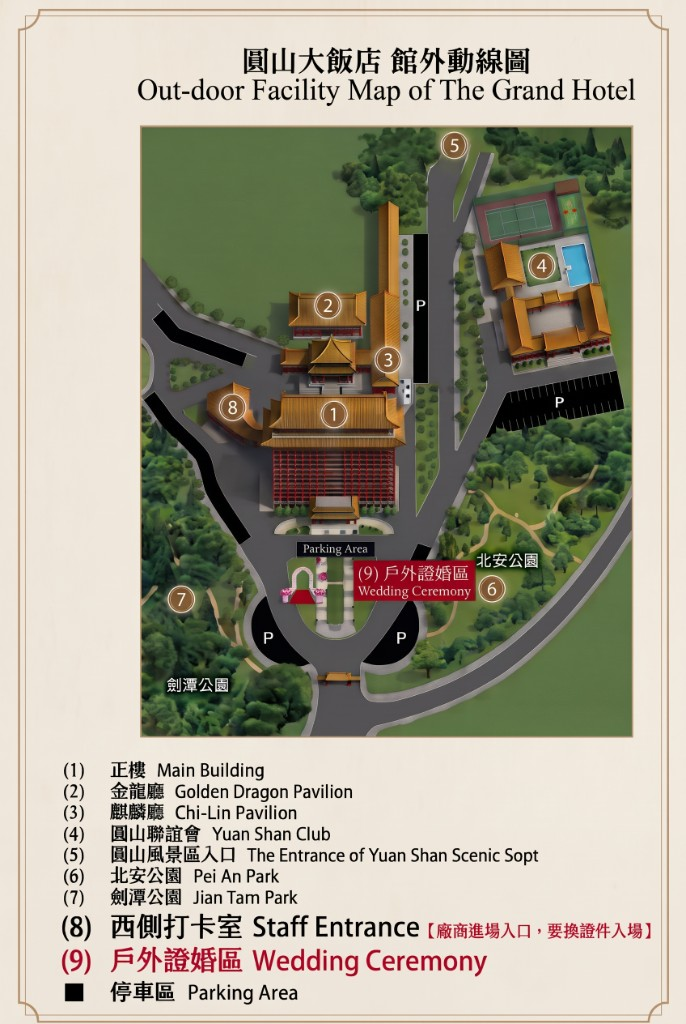
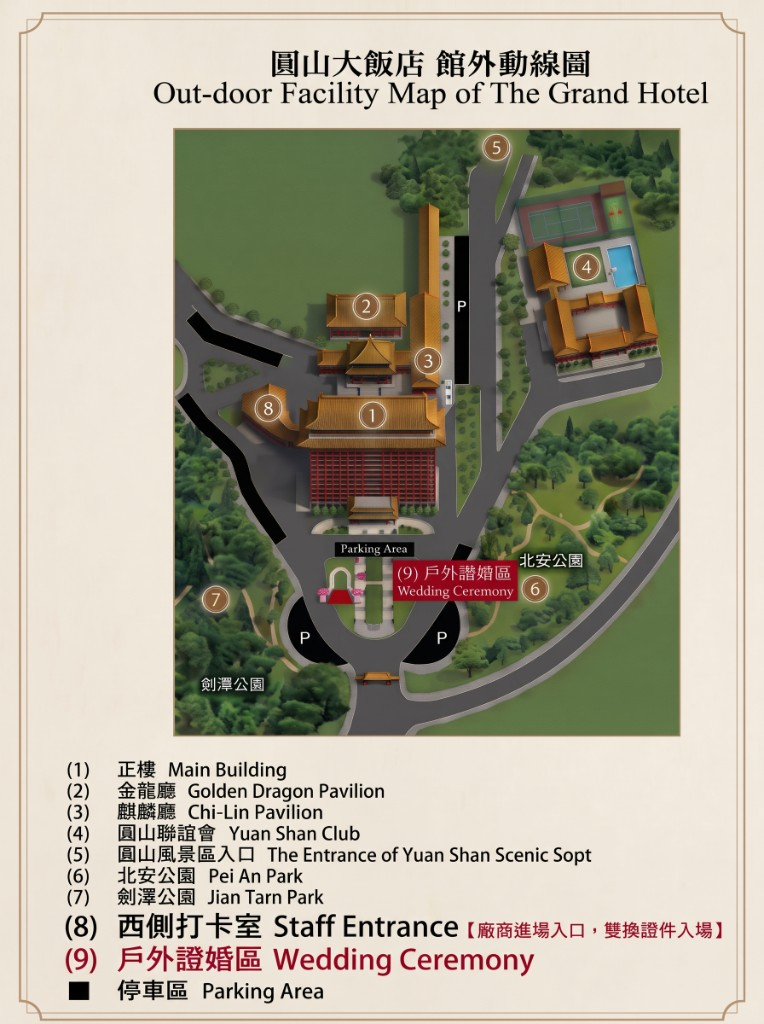
Update wedding agenda wording and refresh the outdoor map image.

Changed region(s): [[0.0306, 0.0, 0.9796, 1.0], [0.0306, 0.7188, 0.0612, 0.75], [0.0306, 0.4375, 0.0612, 0.4688]]

diff --git a/index.html b/index.html
@@ -250,9 +250,9 @@
       <button type="button" id="transit-btn" class="transit-btn" data-open-modal="transit">交通指引</button>
 
       <ol class="timeline">
-        <li><time>11:00</time><span>觀禮證婚儀式</span></li>
-        <li><time>12:00</time><span>圓山大廳 貴賓尊榮大合影</span></li>
-        <li><time>12:30</time><span>喜宴盛大開席</span></li>
+        <li><time>09:45</time><span>戶外證婚（誠摯歡迎觀禮）</span></li>
+        <li><time>10:15</time><span>圓山大廳 貴賓尊榮大合影</span></li>
+        <li><time>12:00</time><span>喜宴盛大開席</span></li>
       </ol>
     </article>
 
@@ -278,7 +278,7 @@
 
       <div id="attending-block" class="conditional-block" hidden>
         <fieldset class="field">
-          <legend>是否參與 11:00 證婚儀式觀禮 <em>*</em></legend>
+          <legend>是否參加 09:45 戶外證婚儀式 <em>*</em></legend>
           <label class="choice"><input type="radio" name="ceremony" value="是，願意提早到場觀禮" /> 是，願意提早到場觀禮</label>
           <label class="choice"><input type="radio" name="ceremony" value="否，僅參加喜宴" /> 否，僅參加喜宴</label>
         </fieldset>
@@ -558,14 +558,14 @@
           <button
             type="button"
             class="transit-map-zoom"
-            data-lightbox-src="images/transit-outdoor-flow.jpg?v=gemini1"
+            data-lightbox-src="images/transit-outdoor-flow.jpg?v=gemini2"
             data-lightbox-alt="圓山大飯店館外動線圖：正樓喜宴、戶外證婚區、停車區與周邊設施"
             aria-label="放大檢視館外動線與停車示意圖"
           >
             <img
-              src="images/transit-outdoor-flow.jpg?v=gemini1"
+              src="images/transit-outdoor-flow.jpg?v=gemini2"
               alt="圓山大飯店館外動線圖：正樓喜宴、戶外證婚區、停車區與周邊設施"
-              width="686"
+              width="764"
               height="1024"
               loading="lazy"
             />
@@ -670,6 +670,6 @@
     </figure>
   </div>
 
-  <script src="js/app.js?v=20261103-mapzoom"></script>
+  <script src="js/app.js?v=20261108-agenda"></script>
 </body>
 </html>

diff --git a/js/app.js b/js/app.js
@@ -373,11 +373,11 @@ function bindKeyDrag() {
 function googleCalendarUrl() {
   const text = encodeURIComponent("圓山喜宴 · 觀禮與喜宴");
   const details = encodeURIComponent(
-    "11:00 觀禮證婚儀式\n12:00 圓山大廳 貴賓尊榮大合影\n12:30 喜宴盛大開席"
+    "09:45 戶外證婚（誠摯歡迎觀禮）\n10:15 圓山大廳 貴賓尊榮大合影\n12:00 喜宴盛大開席"
   );
   const location = encodeURIComponent("台北圓山大飯店 崑崙廳（12樓）");
-  // 台灣時間 2027/02/21 11:00–15:30 → UTC 03:00–07:30
-  const dates = "20270221T030000Z/20270221T073000Z";
+  // 台灣時間 2027/02/21 09:45–15:30 → UTC 01:45–07:30
+  const dates = "20270221T014500Z/20270221T073000Z";
   return `https://www.google.com/calendar/render?action=TEMPLATE&text=${text}&dates=${dates}&details=${details}&location=${location}`;
 }
 
